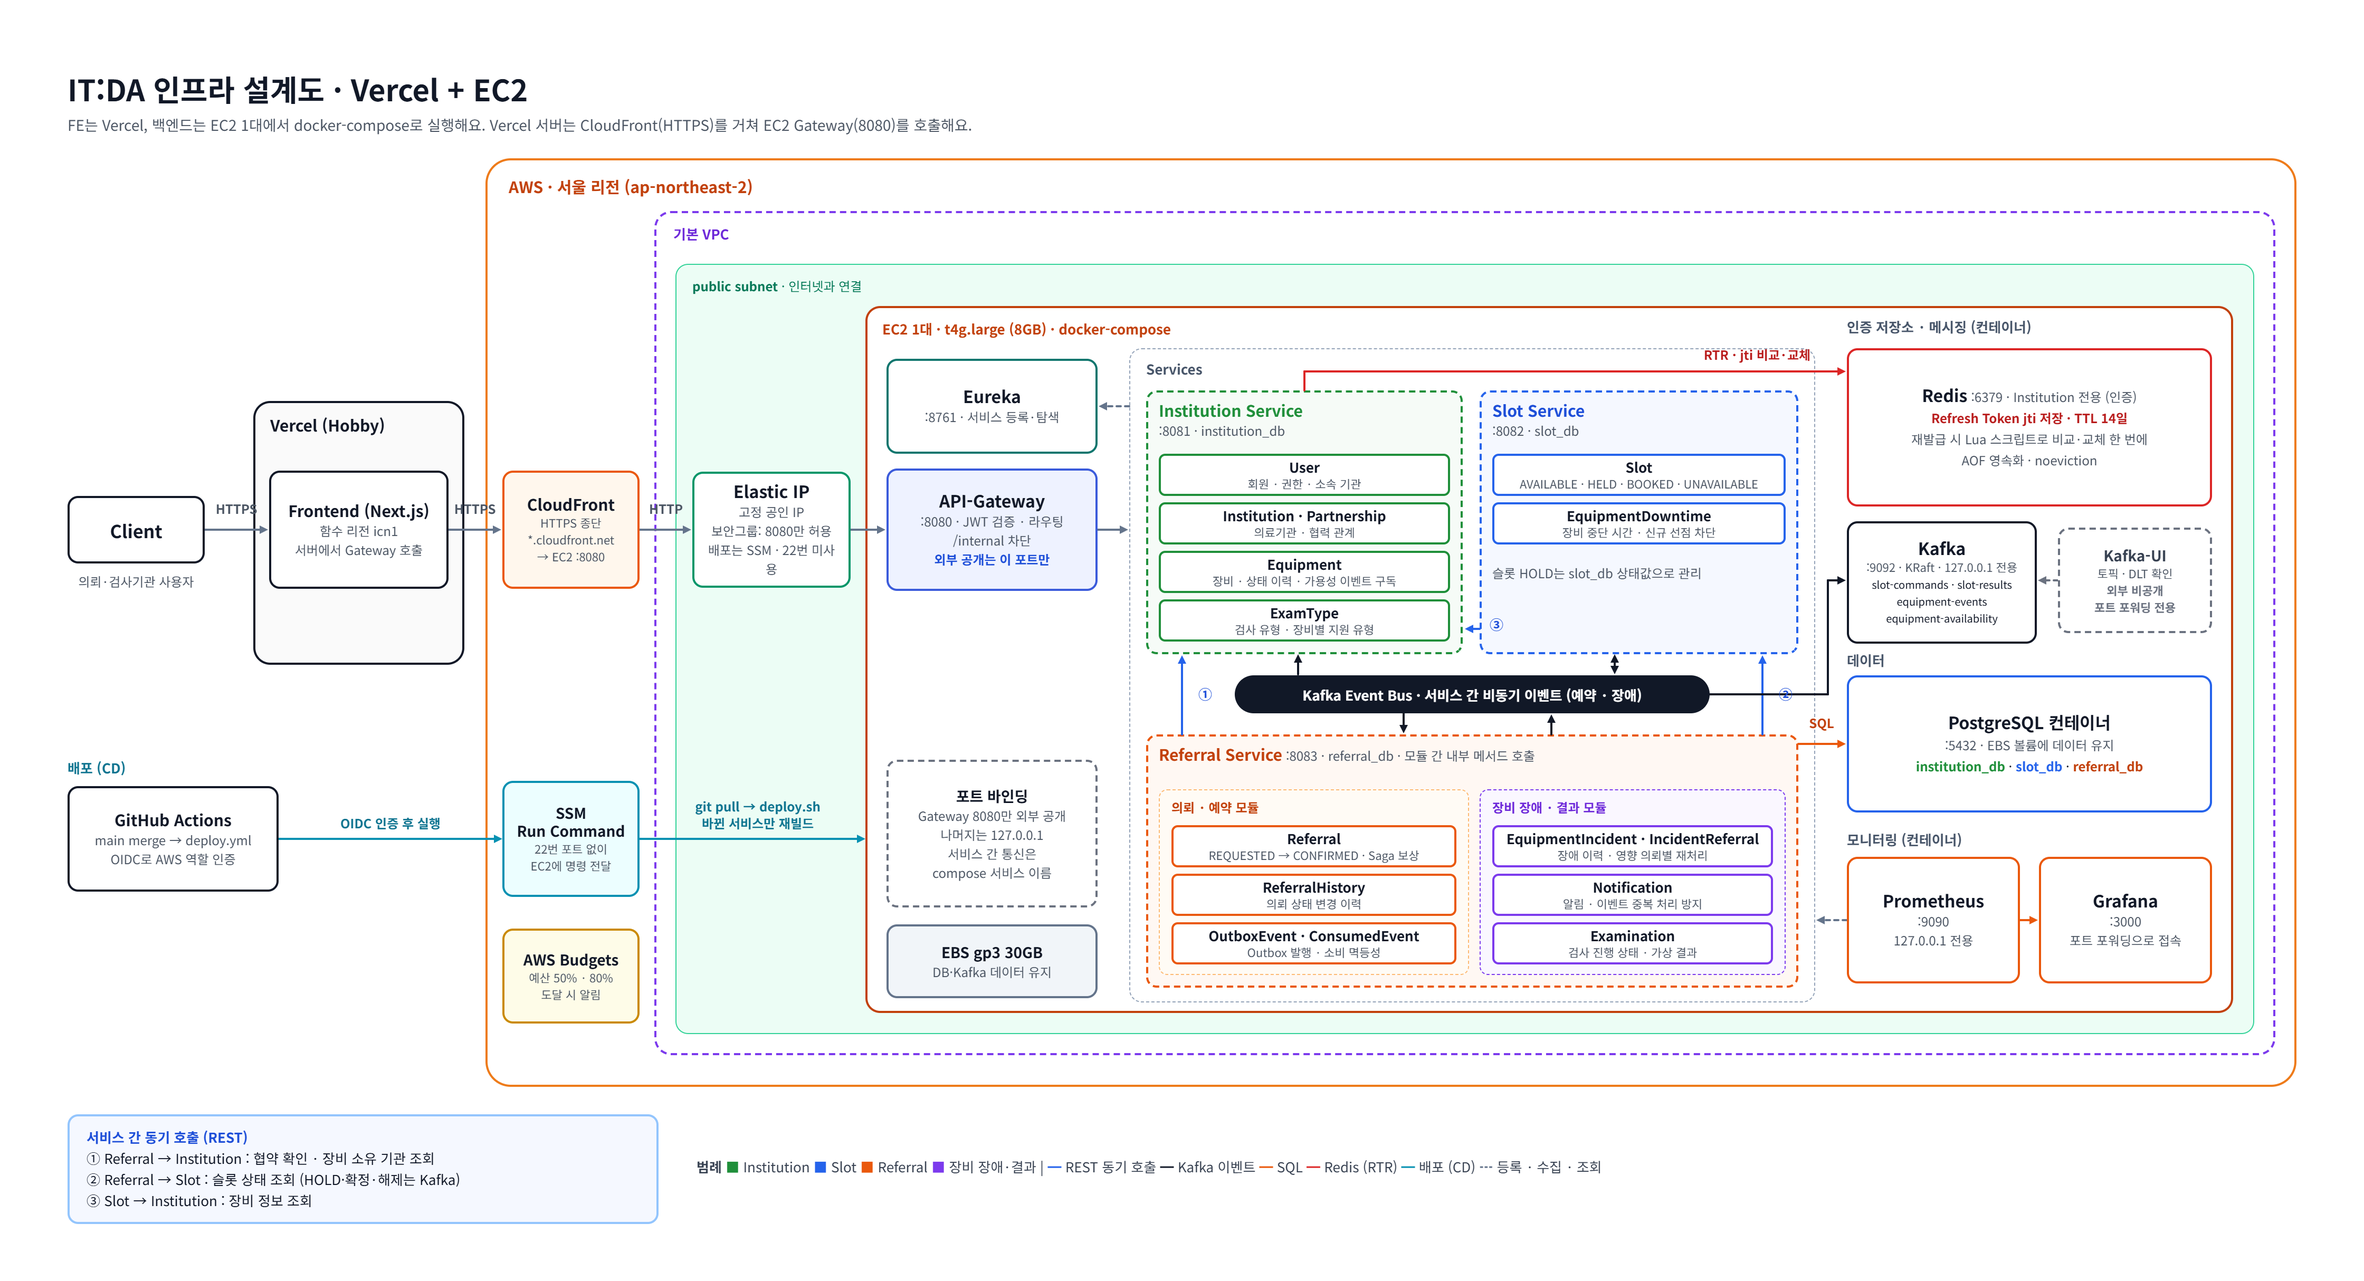
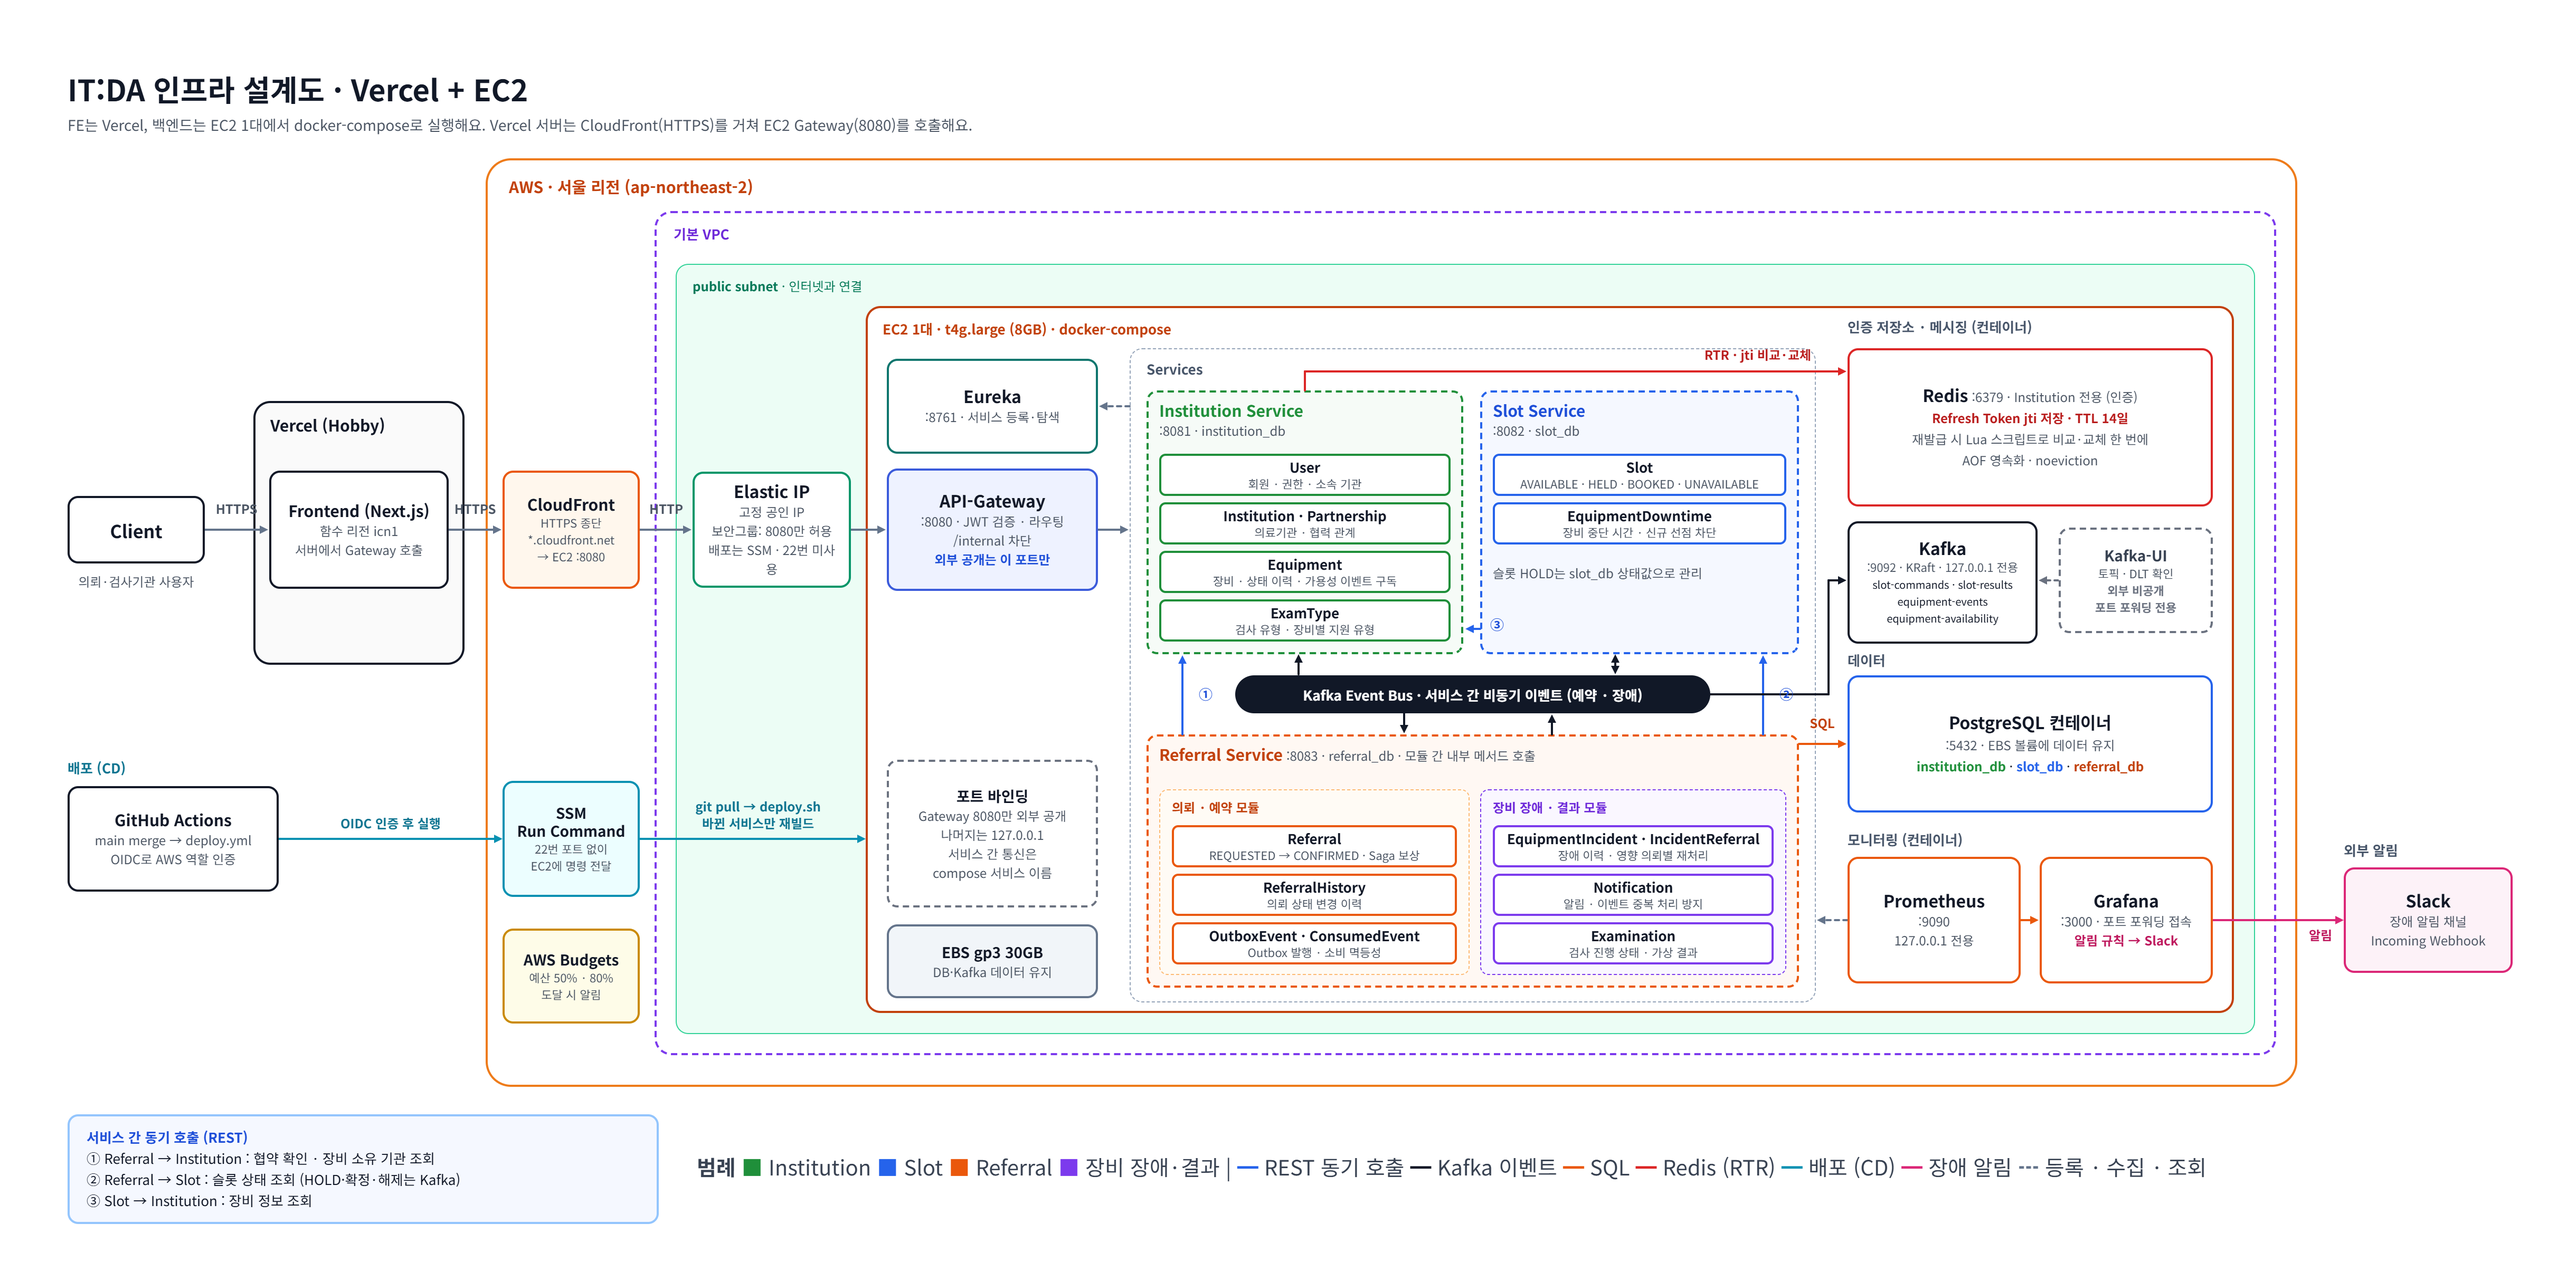
docs: README 프로젝트 구조 및 아키텍처 문서 최신화

diff --git a/README.md b/README.md
@@ -49,13 +49,13 @@ IT:DA는 협력 의료기관 간 CT·MRI 등 검사 의뢰부터 예약, 검사 
 IT:DA는 5인 팀 프로젝트로, 의료기관 간 검사 의뢰 및 예약 업무를 중심으로 서비스를 분리하여 개발했습니다. 각자 담당 도메인을 구현하고, 서비스 간 API·이벤트 연동과 통합 테스트를 통해 전체 업무 흐름을
 완성했습니다.
 
-| 팀원       | 담당 영역                   | 주요 역할                                                                                     |
-|------------|-----------------------------|-----------------------------------------------------------------------------------------------|
-| **신다울** | 인증·인가 및 사용자 관리    | JWT 기반 로그인·토큰 관리, 사용자 인증·인가 및 역할별 접근 제어                               |
-| **윤보영** | 장비 및 슬롯 관리           | 검사 장비·운영시간 관리, 슬롯 생성 및 조회 기능 구현                                          |
-| **장수현** | 슬롯 동시성 제어 및 인프라  | 슬롯 HOLD 및 중복 예약 방지, Docker 기반 MSA 실행 환경 구성                                   |
-| **조민영** | 검사 의뢰 및 예약           | 의뢰·예약 도메인 구현, Kafka 기반 예약 SAGA 및 상태 관리                                      |
-| **김효진** | 장비 장애 대응 및 검사 관리 | 장비 중단 등록 및 영향 예약 처리, 검사 시작·진행 상태 관리 및 결과 등록, 알림·재조정 API 연동 |
+| 팀원       | 담당 영역                      | 주요 역할                                                                                     |
+|------------|--------------------------------|-----------------------------------------------------------------------------------------------|
+| **신다울** | 인증·인가 및 사용자 관리       | JWT 기반 로그인·토큰 관리, 사용자 인증·인가 및 역할별 접근 제어                               |
+| **윤보영** | 장비 및 슬롯 관리              | 검사 장비·운영시간 관리, 슬롯 생성 및 조회 기능 구현                                          |
+| **장수현** | 슬롯 동시성 제어 및 인프라     | 슬롯 HOLD 및 중복 예약 방지, Docker 기반 MSA 실행 환경 구성                                   |
+| **조민영** | 검사 의뢰 및 예약 및 장애 알림 | 의뢰·예약 도메인 구현, Kafka 기반 예약 SAGA 및 상태 관리                                      |
+| **김효진** | 장비 장애 대응 및 검사 관리    | 장비 중단 등록 및 영향 예약 처리, 검사 시작·진행 상태 관리 및 결과 등록, 알림·재조정 API 연동 |
 
 ## 2. 주요 기능 및 업무 흐름
 
@@ -114,26 +114,28 @@ flowchart LR
 
 ```mermaid
 flowchart LR
-    A{"중단 기단 연장?"} --> |"예"| B["추가 슬롯 차단"]
+    A{"중단 기단 연장?"} -->|" 예 "| B["추가 슬롯 차단"]
     B --> C["예약 재조정"]
     B --> D{"담당자 복구 확인"}
-		E["중단 시작"] --> F["장비 상태 반영"]
-		F --> D
-    A --> |"아니요"| D
-		D --> |"미복구"| G["중단 유지"]
-		D --> |"복구"| H["복구 기록"]
-		H --> I["장비 상태 갱신"]
-		I --> J["가능한 슬롯 개방"]
-		G --> A
+    E["중단 시작"] --> F["장비 상태 반영"]
+    F --> D
+    A -->|" 아니요 "| D
+    D -->|" 미복구 "| G["중단 유지"]
+    D -->|" 복구 "| H["복구 기록"]
+    H --> I["장비 상태 갱신"]
+    I --> J["가능한 슬롯 개방"]
+    G --> A
 
-	
+
 ```
 
 예정 종료 시각이 지나도 담당자가 복구를 확인할 때까지 장비 중단 상태와 예약 차단이 유지됩니다.
 
 - **중단 연장** — 종료 시각을 연장하면 추가된 구간의 슬롯을 차단합니다. 새로 영향을 받는 기존 예약은 **2.3 장비 장애 및 예약 재조정** 절차로 이어집니다.
-- **복구 확인** — 실제 복구 시각, 담당자, 사유를 기록하고 장비 상태를 다시 계산합니다. 중단으로 차단된 슬롯 중 시작 시각이 아직 지나지 않았고, 연결된 예약이 없으며, 다른 미복구 중단과도 겹치지 않는 슬롯만 `AVAILABLE`로 전환합니다.
-- **기존 예약과 의뢰** — 복구 후에도 기존 예약은 `BLOCKED`, 의뢰는 `NEEDS_RESCHEDULE` 상태를 유지하며 2.3의 재조정 절차를 따릅니다. 예약 연결이 남아 있는 `BOOKED` 슬롯은 그대로 유지됩니다.
+- **복구 확인** — 실제 복구 시각, 담당자, 사유를 기록하고 장비 상태를 다시 계산합니다. 중단으로 차단된 슬롯 중 시작 시각이 아직 지나지 않았고, 연결된 예약이 없으며, 다른 미복구 중단과도 겹치지 않는
+  슬롯만 `AVAILABLE`로 전환합니다.
+- **기존 예약과 의뢰** — 복구 후에도 기존 예약은 `BLOCKED`, 의뢰는 `NEEDS_RESCHEDULE` 상태를 유지하며 2.3의 재조정 절차를 따릅니다. 예약 연결이 남아 있는 `BOOKED` 슬롯은
+  그대로 유지됩니다.
 
 ### 2.5 예약 실패·보상 및 이벤트 복구
 
@@ -178,7 +180,7 @@ Kafka 이벤트 처리, Saga 보상 및 장애 복구 과정을 포함한 상세
 | Database   | PostgreSQL 18, Redis 8.10.3                               |
 | Messaging  | Apache Kafka 4.4.0, Spring Kafka                          |
 | Security   | Spring Security, JWT (JJWT 0.12.7)                        |
-| Monitoring | Prometheus 3.15.1, Grafana 13.2.4, Micrometer             |
+| Monitoring | Prometheus 3.15.1, Grafana 13.2.4, Micrometer, Slack      |
 | Test       | JUnit, Testcontainers, k6                                 |
 | Infra      | Docker, Docker Compose, AWS EC2                           |
 | CI/CD      | GitHub Actions, AWS IAM (OIDC), AWS Systems Manager (SSM) |
@@ -236,31 +238,38 @@ Kafka 이벤트 처리, Saga 보상 및 장애 복구 과정을 포함한 상세
 
 ```text
 ITDA/
-├── eureka-server/             # 서비스 등록 및 탐색
-├── gateway-service/           # API 라우팅, JWT 인증 및 통합 Swagger
-├── institution-service/       # 회원, 인증, 기관, 협약, 장비 관리
-├── slot-service/              # 검사 슬롯, HOLD, 장비 중단 관리
-├── referral-service/          # 검사 의뢰, 예약, 검사 및 후속 처리
+├── eureka-server/              # 서비스 등록 및 탐색
+├── gateway-service/            # API 라우팅, JWT 인증 및 통합 Swagger
+├── institution-service/        # 회원·기관·협약·장비 관리
+│   └── src/main/java/healoworld/institution_service/
+│       ├── presentation/       # Controller 및 API 요청·응답
+│       ├── application/        # 서비스 로직 및 유스케이스
+│       ├── domain/             # 엔티티 및 도메인 규칙
+│       ├── infrastructure/     # DB 및 외부 시스템 연동
+│       ├── config/             # 서비스 설정
+│       └── global/             # 공통 예외 및 응답 처리
+├── slot-service/               # 검사 슬롯, HOLD, 장비 중단 관리
+├── referral-service/           # 검사 의뢰, 예약, 검사 및 후속 처리
 ├── docs/
-│   ├── SCENARIOS.md           # 정상·장애·복구 업무 시나리오
-│   └── PERFORMANCE_TEST.md    # 부하 테스트 및 성능·동시성 검증
+│   ├── SCENARIOS.md            # 정상·장애·복구 업무 시나리오
+│   └── PERFORMANCE_TEST.md     # 부하 테스트 및 성능·동시성 검증
 ├── images/
-│   ├── readme/                # 시스템 구성도·인프라 구성도·ERD
-│   └── performance/           # Grafana 및 성능 테스트 결과 이미지
+│   ├── readme/                 # 시스템 구성도·인프라 구성도·ERD
+│   └── performance/            # Grafana 및 성능 테스트 결과 이미지
 ├── docker/
-│   ├── postgres/init.sql      # 서비스별 데이터베이스 초기화
-│   ├── prometheus/            # 메트릭 수집 설정
-│   └── grafana/               # 대시보드 및 데이터소스 설정
+│   ├── postgres/init.sql       # 서비스별 데이터베이스 초기화
+│   ├── prometheus/             # 메트릭 수집 설정
+│   └── grafana/                # 대시보드 및 데이터소스 설정
 ├── load-test/
-│   ├── k6/                    # 예약 Saga 및 슬롯 부하 테스트
-│   ├── sql/                   # 테스트 데이터 및 결과 검증 SQL
-│   └── run-slot.sh            # 슬롯 단독 부하 테스트 실행 스크립트
+│   ├── k6/                     # 예약 Saga 및 슬롯 부하 테스트
+│   ├── sql/                    # 테스트 데이터 및 결과 검증 SQL
+│   └── run-slot.sh             # 슬롯 단독 부하 테스트 실행 스크립트
 ├── .github/workflows/
-│   ├── ci.yml                 # PR 빌드·테스트
-│   └── deploy.yml             # AWS SSM 기반 EC2 자동 배포
-├── .env.example               # 환경변수 예시
-├── docker-compose.yml         # DB·메시징·모니터링 환경
-├── docker-compose.app.yml     # MSA 애플리케이션 실행 환경
+│   ├── ci.yml                  # PR 빌드·테스트
+│   └── deploy.yml              # AWS SSM 기반 EC2 자동 배포
+├── .env.example                # 환경변수 예시
+├── docker-compose.yml          # DB·메시징·모니터링 환경
+├── docker-compose.app.yml      # MSA 애플리케이션 실행 환경
 └── README.md
 ```
 
@@ -436,18 +445,19 @@ Kafka 이벤트 처리 지연 및 자원 사용량을 분석했습니다.
 | API 진입      | AWS CloudFront → Gateway                           |
 | 백엔드        | AWS EC2, Docker Compose                            |
 | 데이터·메시징 | PostgreSQL, Redis, Kafka                           |
-| 모니터링      | Prometheus, Grafana, Kafka UI                      |
+| 모니터링      | Prometheus, Grafana, Kafka UI , Slack              |
 | 배포          | GitHub Actions → AWS SSM → EC2 (main push 시 자동) |
 
 ### 8.2 운영 관리
 
 - **서비스 운영:** Docker Compose 기반 컨테이너 관리 및 헬스체크
-- **모니터링:** Prometheus, Grafana를 통한 서비스 상태 및 주요 지표 확인
+- **모니터링 및 장애 알림:** Prometheus·Grafana로 서비스 상태와 주요 성능 지표를 모니터링하고, 임계값 초과 시 Slack 알림 전송
 - **메시지 장애 대응:** DLT 조회 및 실패 메시지 재처리
-- **접근 제어:** Gateway 중심 인증 및 내부 서비스 외부 접근 제한
-- **재조정 만료:** 기본 비활성화된 스케줄러를 대상 데이터·백업·배포 상태 확인 후 활성화하여 만료 이력과 알림을 점검
+- **접근 제어:** Gateway 중심 인증 및 내부 서비스 접근 제한
+- **재조정 만료:** 스케줄러 활성화 전 운영 데이터를 검증하고, 만료 처리 결과와 이력·알림 점검
 
-**주의:** 운영 중인 DB·Kafka 볼륨과 수동 DDL, 서비스 기동 순서를 확인해야 합니다. 위 명령이 기존 DB 마이그레이션을 대체하는 것은 아닙니다.
+**주의:** 운영 중인 DB·Kafka 볼륨과 수동 DDL, 서비스 기동 순서를 확인해야 합니다. 위 명령이 기존 DB
+마이그레이션을 대체하는 것은 아닙니다.
 
 ### 8.3 CI/CD
 
